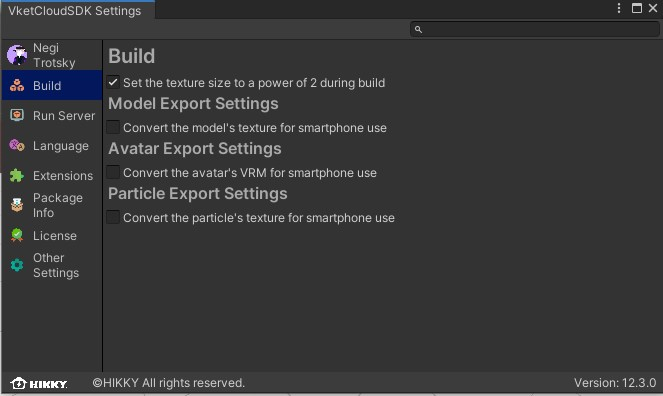
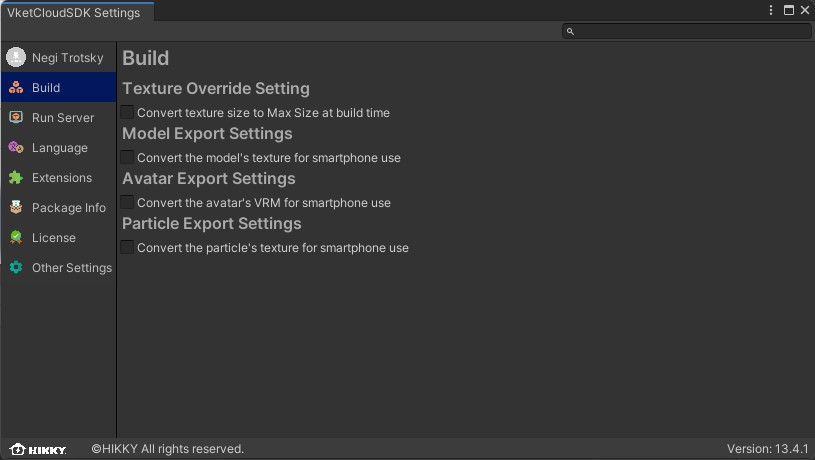
BuildOptions: Ver13.4 での設定項目に更新

diff --git a/docs/WorldEditingTips/BuildOptions.ja.md b/docs/WorldEditingTips/BuildOptions.ja.md
@@ -10,10 +10,11 @@
 
 | 名称 | 初期値 | 機能 |
 | ---- | ---- | ---- |
-| Set the texture size to a power of 2 during build | true | テクスチャのInspectorで指定したMaxSizeを基にファイルを変換します。 |
+| Convert texture size to Max size at build time | false | テクスチャのInspectorで指定したMaxSizeを基にファイルを変換します。<br> Ver13.4から変換方式が変わり、本設定が有効な際のビルド完了までの時間の削減とワールドのロード時間が短縮されました。 |
 
 テクスチャのMaxSize(ビルド時に変換されるサイズ)はInspectorから指定が可能です。<br>
-これによって、どの程度圧縮がかけられるか設定が可能です。
+これによって、どの程度圧縮がかけられるか設定が可能です。<br>
+例として、MaxSizeを64に設定し、「Convert texture size to Max size at build time」をビルド時に有効にすることでロード時間の削減が期待されます。
 
 ![BuildOptions_2](img/BuildOptions_2.jpg)
 

diff --git a/docs/WorldEditingTips/BuildOptions.en.md b/docs/WorldEditingTips/BuildOptions.en.md
@@ -10,10 +10,11 @@ To edit build options, Open VketCloudSDK > Settings, and select the "Build" tab.
 
 | Label | Initial Value | Function |
 | ---- | ---- | ---- |
-| Set the texture size to a power of 2 during build | true | Convert texture size depending on the Maxsize designated on the texture's Inspector. |
+| Convert texture size to Max size at build time | false | Convert texture size depending on the Maxsize designated on the texture's Inspector.<br> This function has been revised on Ver13.4, which reduced the build time and world load time when this configuration is enabled. |
 
 The texture's MaxSize(convert size on build) can be designated in the Inspector.<br>
-This designates how much the texture will be compressed.
+This designates how much the texture will be compressed.<br>
+For example, by setting MaxSize to 64 and enabling "Convert texture size to Max size at build time," the total world load time is expected to be reduced.
 
 ![BuildOptions_2](img/BuildOptions_2.jpg)
 
